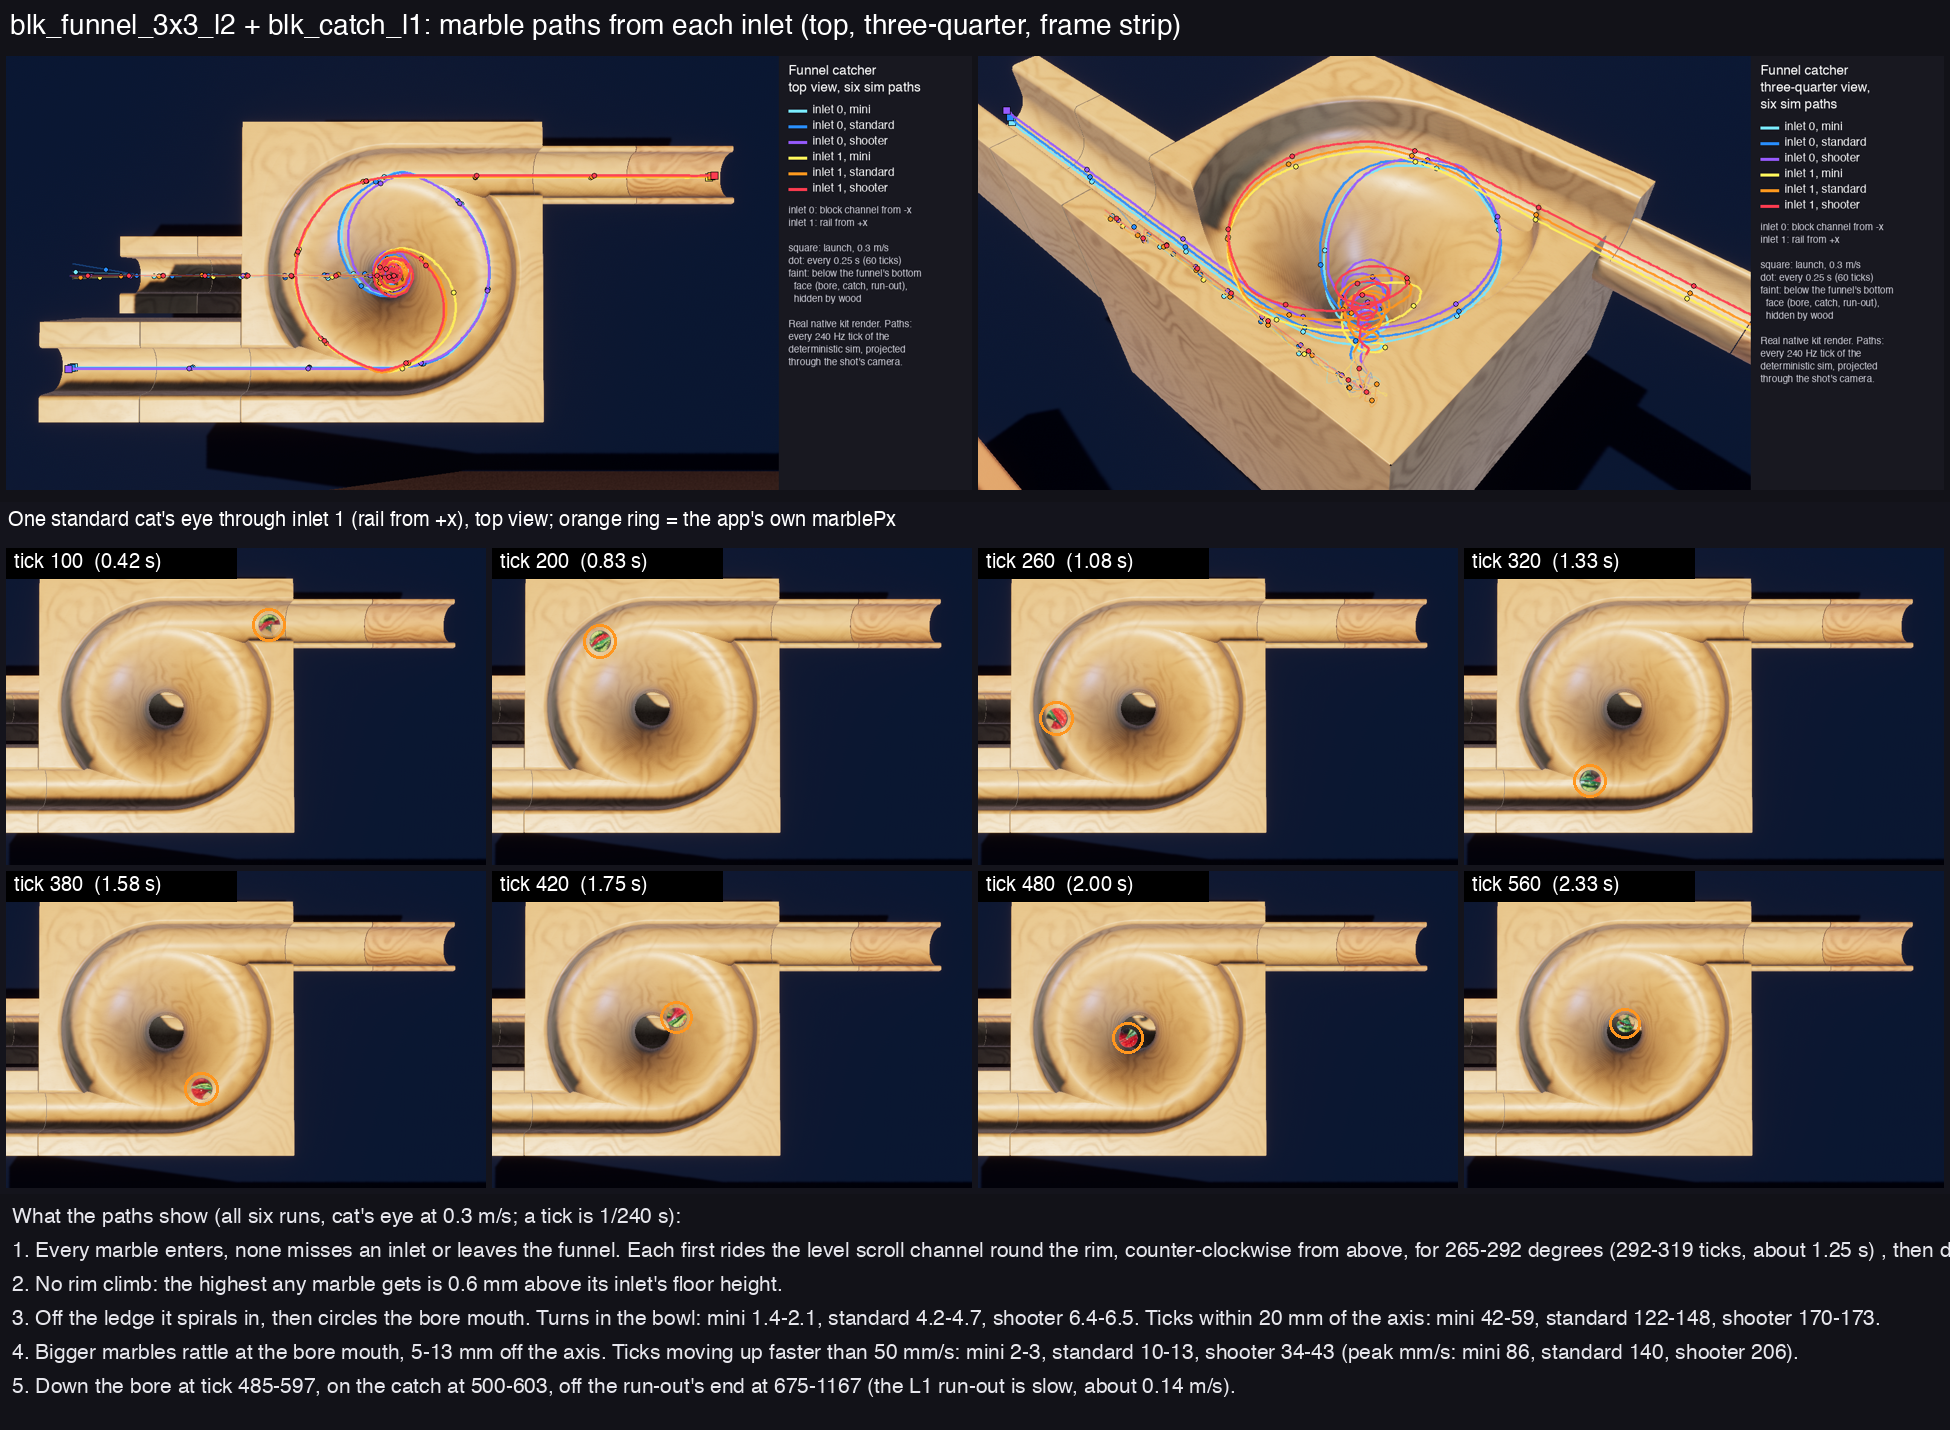
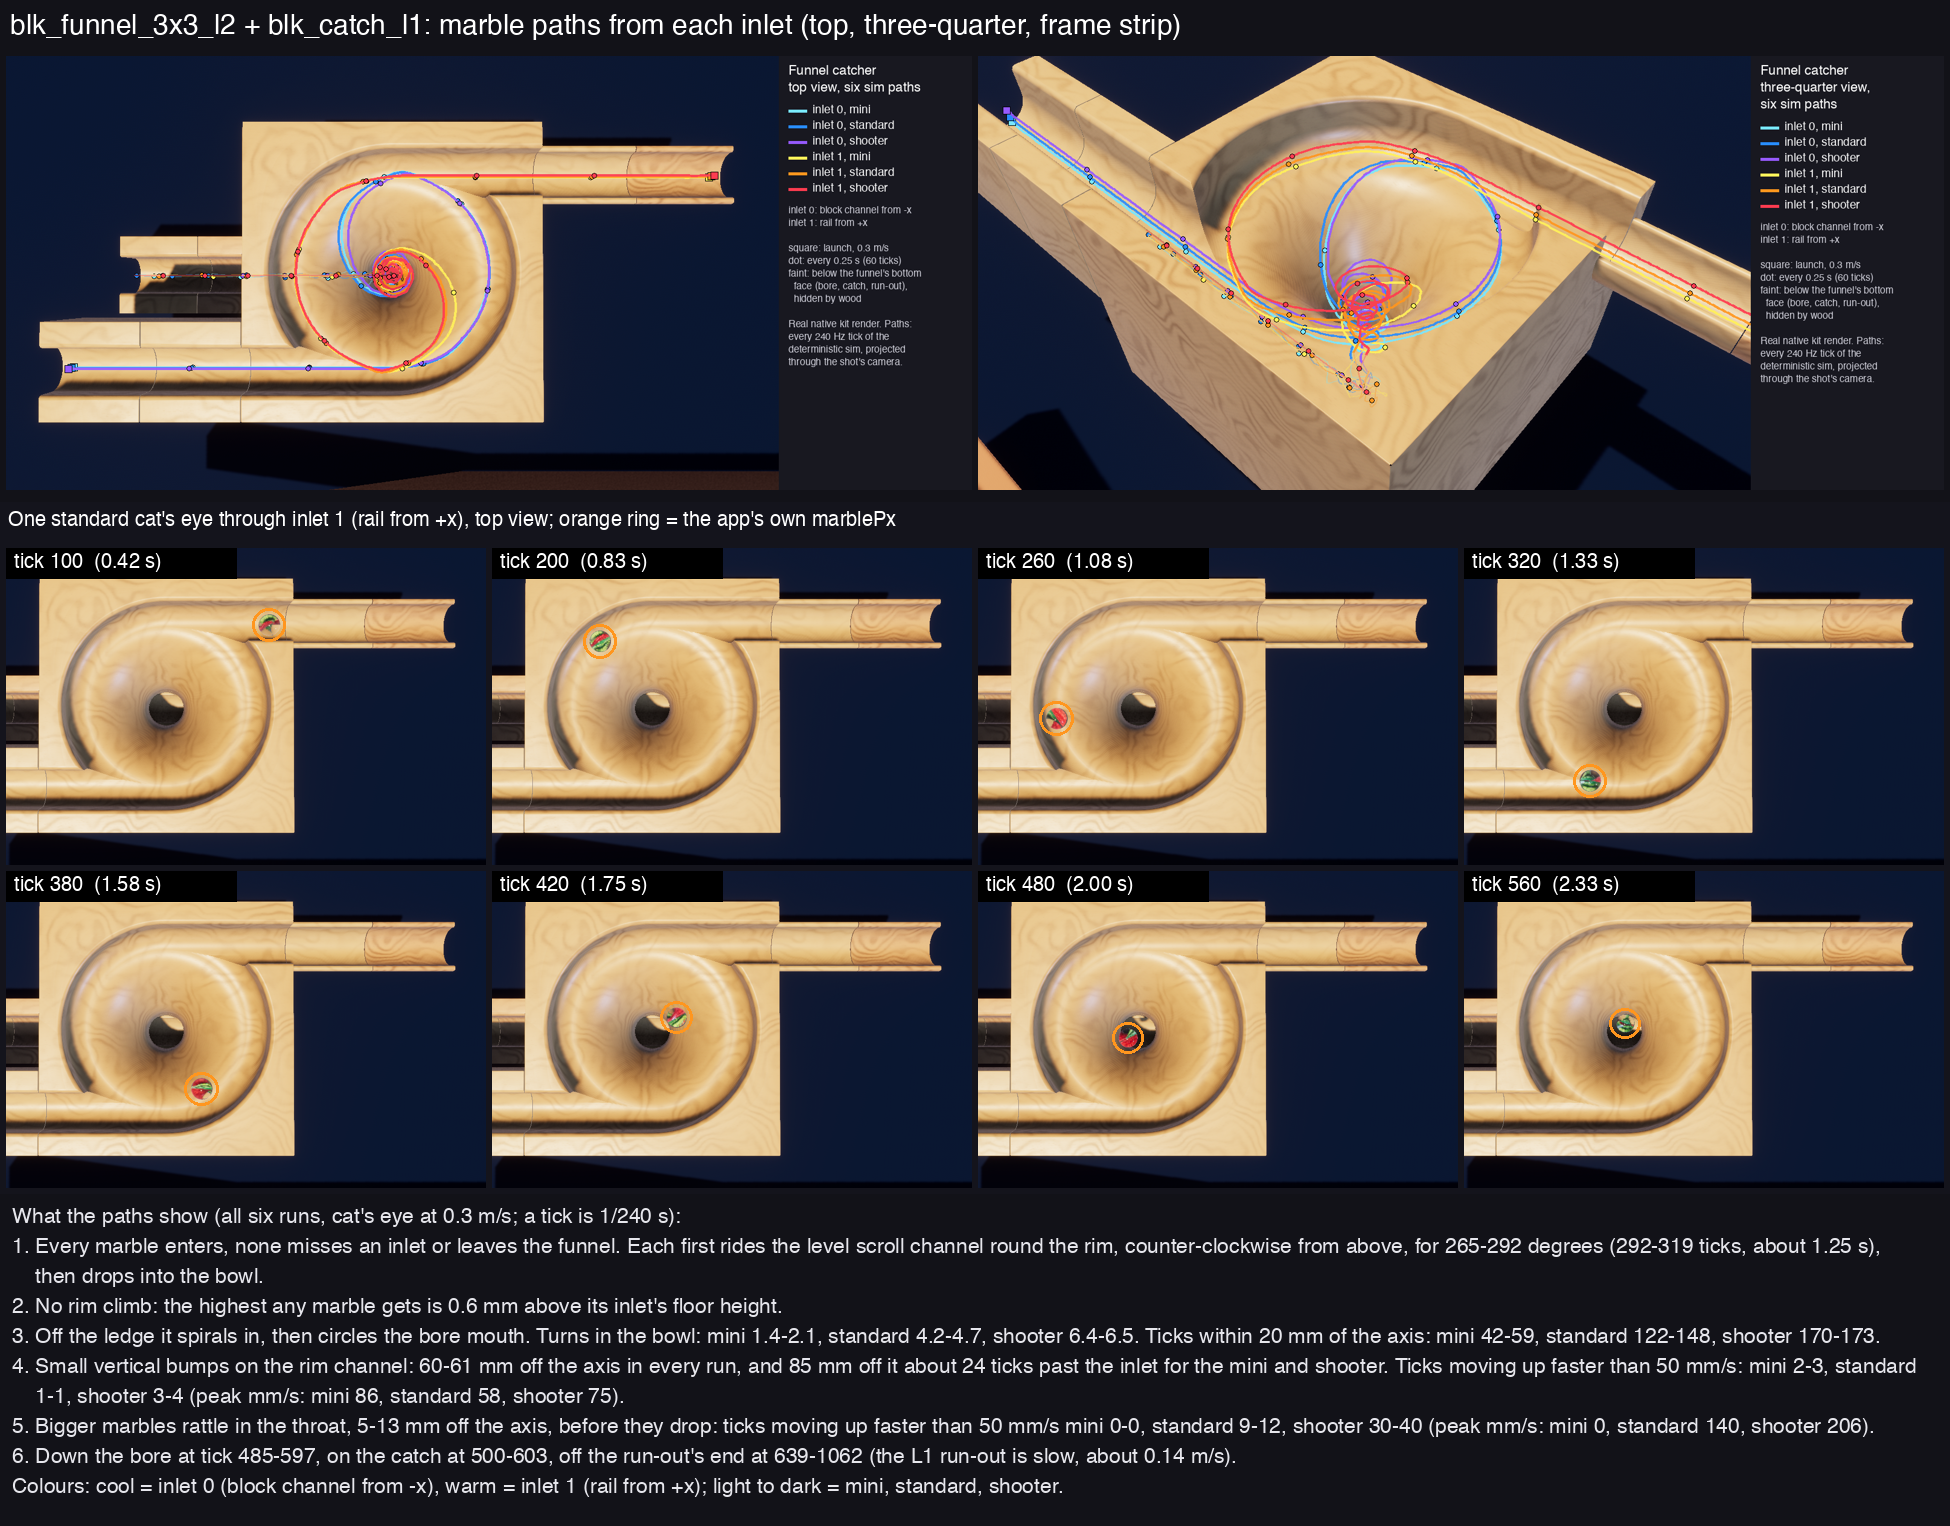
Funnel look-dev: split rim and throat bumps in the captions, check the three-quarter projection against marblePx, run-out end at its last straight, wrapped caption with a colour key

diff --git a/scripts/design/funnel_overlay.py b/scripts/design/funnel_overlay.py
@@ -38,6 +38,7 @@ PANEL = 320
 STRIP_TICKS = [100, 200, 260, 320, 380, 420, 480, 560]
 STRIP_SCENARIO = "funnel-rail"
 STRIP_SIZE = "standard"
+CHECK_3Q_TICK = 380
 COLOURS = {
     (0, "mini"): (120, 230, 255),
     (0, "standard"): (40, 140, 255),
@@ -106,9 +107,9 @@ def projector(cam: dict):
 
 
 def run_end(pos: list) -> int:
-    """Index where the marble has left the run-out's end (x < -0.09, beyond the last straight)."""
+    """Index where the marble has left the run-out's end (x < -0.03, the last straight's -x face)."""
     for i, q in enumerate(pos):
-        if q[0] < -0.09:
+        if q[0] < -0.03:
             return i
     return len(pos) - 1
 
@@ -139,9 +140,11 @@ def metrics(run: dict) -> dict:
         bowl_turn += (a1 - a0 + math.pi) % (2 * math.pi) - math.pi
     # Climb above the inlet floor height anywhere in the funnel (rim riding).
     climb = max(pos[i][1] - rim_y for i in range(enter, bore))
-    # Bounces: ticks with upward speed over 50 mm/s inside the funnel.
-    ups = [i for i in range(enter, bore) if pos[i][4] > 0.05]
-    max_up = max((pos[i][4] for i in range(enter, bore)), default=0.0)
+    # Bumps: ticks moving up faster than 50 mm/s inside the funnel, on the rim channel (over
+    # 40 mm off the axis) and in the throat (under 20 mm).
+    rim_ups = [i for i in range(enter, bore) if pos[i][4] > 0.05 and rad[i] > 0.04]
+    throat_ups = [i for i in range(enter, bore) if pos[i][4] > 0.05 and rad[i] < 0.02]
+    peak = lambda ix: round(max((pos[i][4] for i in ix), default=0.0) * 1000)
     # Near-axis swirl before the bore: radius under 20 mm, above the funnel's bottom face.
     swirl = [i for i in range(leave_rim, bore) if rad[i] < 0.02 and pos[i][1] >= FUNNEL_BOTTOM_Y]
     catch = next(i for i in range(bore, len(pos)) if pos[i][1] < 0.03 + r)
@@ -162,8 +165,11 @@ def metrics(run: dict) -> dict:
         "catch_landing_tick": catch,
         "run_out_end_tick": end,
         "climb_above_inlet_floor_mm": round(climb * 1000, 1),
-        "upward_ticks_over_50mm_s": len(ups),
-        "max_upward_mm_s": round(max_up * 1000),
+        "rim_bump_ticks": len(rim_ups),
+        "rim_bump_peak_mm_s": peak(rim_ups),
+        "rim_bumps": [[i, round(rad[i] * 1000), round(pos[i][4] * 1000)] for i in rim_ups],
+        "throat_bump_ticks": len(throat_ups),
+        "throat_bump_peak_mm_s": peak(throat_ups),
         "sense": "clockwise from above" if rim_turn > 0 else "counter-clockwise from above",
     }
 
@@ -289,21 +295,40 @@ def contact(m: list, out: Path) -> None:
             for s, rs in rows.items()
         )
 
-    maxup = ", ".join(f"{s} {max(r['max_upward_mm_s'] for r in rs)}" for s, rs in rows.items())
+    def peak(k: str) -> str:
+        return ", ".join(f"{s} {max(r[k] for r in rs)}" for s, rs in rows.items())
+
     lines = [
         "What the paths show (all six runs, cat's eye at 0.3 m/s; a tick is 1/240 s):",
         "1. Every marble enters, none misses an inlet or leaves the funnel. Each first rides the level scroll channel round the rim, counter-clockwise from above, "
-        f"for {span('rim_ledge_turn_deg')} degrees ({span('rim_ledge_ticks')} ticks, about 1.25 s) , then drops into the bowl.",
+        f"for {span('rim_ledge_turn_deg')} degrees ({span('rim_ledge_ticks')} ticks, about 1.25 s), then drops into the bowl.",
         f"2. No rim climb: the highest any marble gets is {max(by('climb_above_inlet_floor_mm')):.1f} mm above its inlet's floor height.",
         f"3. Off the ledge it spirals in, then circles the bore mouth. Turns in the bowl: {per_size('bowl_turns', '{:.1f}')}. "
         f"Ticks within 20 mm of the axis: {per_size('near_axis_swirl_ticks')}.",
-        f"4. Bigger marbles rattle at the bore mouth, 5-13 mm off the axis. Ticks moving up faster than 50 mm/s: "
-        f"{per_size('upward_ticks_over_50mm_s')} (peak mm/s: {maxup}).",
-        f"5. Down the bore at tick {span('bore_tick')}, on the catch at {span('catch_landing_tick')}, off the run-out's end at "
+        "4. Small vertical bumps on the rim channel: 60-61 mm off the axis in every run, and 85 mm off it about 24 ticks past the inlet for the mini "
+        f"and shooter. Ticks moving up faster than 50 mm/s: {per_size('rim_bump_ticks')} (peak mm/s: {peak('rim_bump_peak_mm_s')}).",
+        "5. Bigger marbles rattle in the throat, 5-13 mm off the axis, before they drop: ticks moving up faster than 50 mm/s "
+        f"{per_size('throat_bump_ticks')} (peak mm/s: {peak('throat_bump_peak_mm_s')}).",
+        f"6. Down the bore at tick {span('bore_tick')}, on the catch at {span('catch_landing_tick')}, off the run-out's end at "
         f"{span('run_out_end_tick')} (the L1 run-out is slow, about 0.14 m/s).",
+        "Colours: cool = inlet 0 (block channel from -x), warm = inlet 1 (rail from +x); light to dark = mini, standard, shooter.",
     ]
     header = 56
-    text_h = 34 * len(lines) + 20
+    fl = font(21)
+    measure = ImageDraw.Draw(Image.new("RGB", (1, 1)))
+    wrapped = []
+    for ln in lines:
+        words, cur = ln.split(" "), ""
+        for w in words:
+            nxt = f"{cur} {w}" if cur else w
+            if measure.textlength(nxt, font=fl) > sw - 40 and cur:
+                wrapped.append(cur)
+                cur = "    " + w
+            else:
+                cur = nxt
+        wrapped.append(cur)
+    lines = wrapped
+    text_h = 30 * len(lines) + 20
     sheet = Image.new("RGB", (sw, header + top.height + 12 + st.height + 12 + text_h), (18, 18, 24))
     d = ImageDraw.Draw(sheet)
     d.text((10, 12), "blk_funnel_3x3_l2 + blk_catch_l1: marble paths from each inlet (top, three-quarter, frame strip)",
@@ -314,8 +339,8 @@ def contact(m: list, out: Path) -> None:
     sheet.paste(st, (0, y))
     y += st.height + 12
     for ln in lines:
-        d.text((12, y), ln, font=font(21), fill=(230, 230, 236))
-        y += 34
+        d.text((12, y), ln, font=fl, fill=(230, 230, 236))
+        y += 30
     sheet.save(out / "funnel-contact-sheet.png")
 
 
@@ -337,16 +362,27 @@ def main() -> int:
         load = lambda n: json.loads((shots / f"{n}.json").read_text())
         top, tq = load("top"), load("3q")
         frames = [load(f"strip-{t}") for t in STRIP_TICKS]
+        tq_check = load(f"check-3q-{CHECK_3Q_TICK}")
     else:
         # The scenario's own mini has run out and fallen off the floor's edge by tick 2400, so
         # the scene is empty under the paths.
         top = capture(binary, "top", "funnel", "funnel-top", "mini", 2400)
         tq = capture(binary, "3q", "funnel", "funnel-3q", "mini", 2400)
         frames = [capture(binary, f"strip-{t}", STRIP_SCENARIO, "funnel-top", STRIP_SIZE, t) for t in STRIP_TICKS]
+        tq_check = capture(binary, f"check-3q-{CHECK_3Q_TICK}", STRIP_SCENARIO, "funnel-3q", STRIP_SIZE, CHECK_3Q_TICK)
     draw_paths(top, runs, OUT / "funnel-top-paths.png", ["Funnel catcher", "top view, six sim paths"])
     draw_paths(tq, runs, OUT / "funnel-3q-paths.png", ["Funnel catcher", "three-quarter view,", "six sim paths"])
     strip_run = next(r for r in runs if r["inlet"] == 1 and r["size"] == STRIP_SIZE)
     checks = strip(frames, strip_run, OUT / "funnel-rail-strip.png")
+    for c in checks:
+        c["camera"] = "funnel-top"
+    sim = strip_run["pos"][tq_check["tick"]][:3]
+    checks.append({
+        "camera": "funnel-3q",
+        "tick": tq_check["tick"],
+        "sim_vs_app_mm": round(math.dist(sim, tq_check["marbles"][0]["position"]) * 1000, 3),
+        "proj_vs_marblePx": round(math.dist(projector(tq_check["shotCamera"])(sim), tq_check["shotCamera"]["marblePx"][0]), 2),
+    })
     m = [metrics(r) for r in runs]
     contact(m, OUT)
     report = {"strip_checks": checks, "runs": m}
